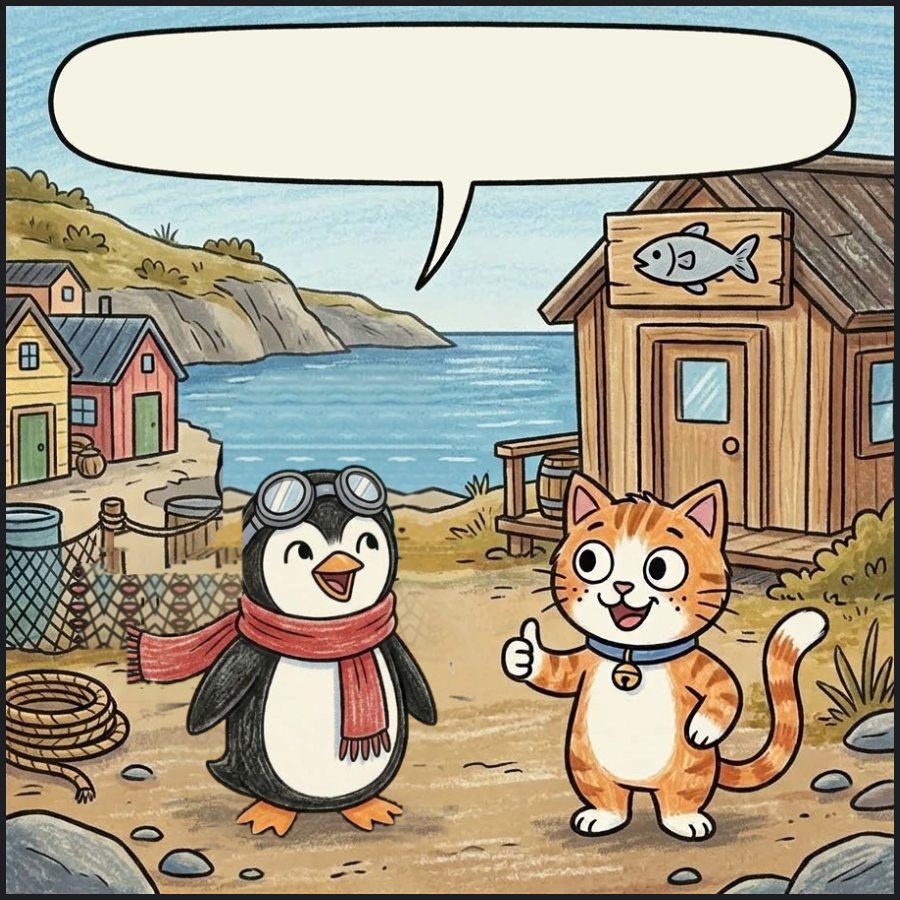
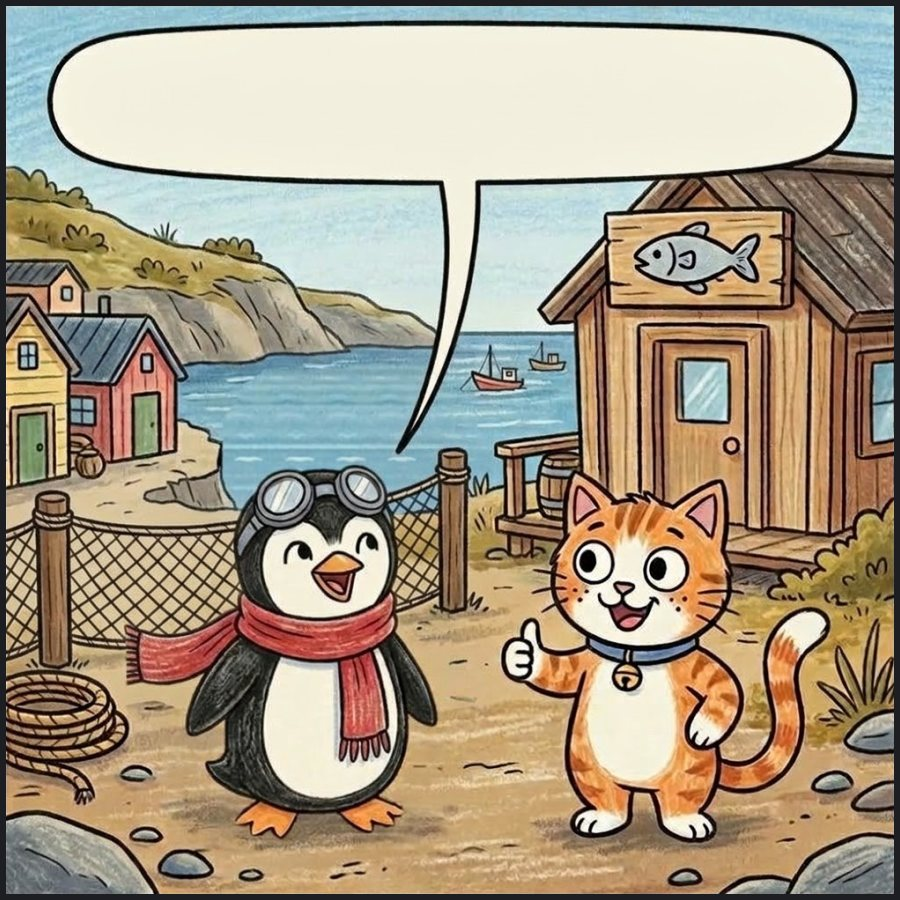
Episode 4: new frames 1 and 5
Claude-Session: https://claude.ai/code/session_01NreAqm5NtqDWekSoZfY2fL

diff --git a/ep4/index.html b/ep4/index.html
@@ -192,7 +192,7 @@ body.show-en .story{gap:2px}
     <div class="story"><p data-line="今天|是|个|好日子|！" data-en="Today is a great day!"></p><p data-line="小林|和|小懒猫|的|鱼|餐厅" data-en="Xiao Lin and Little Lazy Cat's fish restaurant"></p><p data-line="终于|开张|了|！" data-en="is finally open!"></p></div>
     <figure>
       <img src="sq1.jpg" alt="The penguin and cat stand proudly outside their new fish restaurant by the sea" width="900" height="900">
-      <button class="bub" data-who="penguin" data-line="我们|今天|开张|啦|！" data-en="We're opening today!" style="left:7.6%;top:3.6%;width:85.2%;height:15.5%;font-size:6.6cqw;line-height:1.25"></button>
+      <button class="bub" data-who="penguin" data-line="我们|今天|开张|啦|！" data-en="We're opening today!" style="left:7.4%;top:3.5%;width:85.6%;height:15.6%;font-size:7.0cqw;line-height:1.25"></button>
     </figure>
   </section>
   <section class="panel">
@@ -219,8 +219,8 @@ body.show-en .story{gap:2px}
   <section class="panel">
     <div class="story"><p data-line="小懒猫|看傻了|。" data-en="Little Lazy Cat just stared."></p><p data-line="小林|马上|煮了|一大锅|海带汤|。" data-en="Xiao Lin quickly cooked a big pot of kelp soup."></p><p data-line="小鱼们|都|说|：|“|好喝|！|”" data-en="All the little fish said: “Yummy!”"></p></div>
     <figure>
-      <img src="sq5.jpg" alt="Fish customers eat kelp soup while the penguin and cat serve bowls" width="900" height="900">
-      <button class="bub" data-who="fish" data-line="海带汤|真|好喝|！" data-en="The kelp soup is so good!" data-show="海带汤/真好喝！" style="left:20.9%;top:14.7%;width:16.7%;height:10.5%;font-size:3.8cqw;line-height:1.25"></button><button class="bub" data-who="fish" data-line="明天|我|还要|来|！" data-en="I'm coming back tomorrow!" data-show="明天/我还要来！" style="left:40.7%;top:16.2%;width:19.6%;height:11.0%;font-size:3.5cqw;line-height:1.25"></button><button class="bub" data-who="fish" data-line="看起来|好|好吃|！" data-en="It looks so yummy!" data-show="看起来/好好吃！" style="left:64.1%;top:8.0%;width:23.4%;height:12.1%;font-size:4.4cqw;line-height:1.25"></button><button class="bub" data-who="penguin" data-line="海带汤|来了|！" data-en="Here's your kelp soup!" data-show="海带汤/来了！" style="left:76.3%;top:46.9%;width:19.9%;height:11.9%;font-size:4.4cqw;line-height:1.25"></button><button class="bub" data-who="cat" data-line="五号桌|再来|一碗|！" data-en="One more bowl for table five!" data-show="五号桌/再来一碗！" style="left:41.8%;top:64.4%;width:11.7%;height:8.6%;font-size:2.8cqw;line-height:1.25"></button>
+      <img src="sq5.jpg" alt="Fish customers, including a big anglerfish, eat kelp soup while the penguin and cat serve bowls" width="900" height="900">
+      <button class="bub" data-who="fish" data-line="海带汤|真|好喝|！" data-en="The kelp soup is so good!" data-show="海带汤/真好喝！" style="left:20.8%;top:14.6%;width:16.7%;height:10.6%;font-size:4.2cqw;line-height:1.25"></button><button class="bub" data-who="fish" data-line="明天|我|还要|来|！" data-en="I'm coming back tomorrow!" data-show="明天/我还要来！" style="left:40.7%;top:16.1%;width:19.8%;height:11.1%;font-size:4.2cqw;line-height:1.25"></button><button class="bub" data-who="fish" data-line="看起来|好|好吃|！" data-en="It looks so yummy!" data-show="看起来/好好吃！" style="left:64.1%;top:7.8%;width:23.5%;height:12.2%;font-size:5.0cqw;line-height:1.25"></button><button class="bub" data-who="penguin" data-line="海带汤|来了|！" data-en="Here's your kelp soup!" data-show="海带汤/来了！" style="left:76.2%;top:47.0%;width:20.1%;height:12.0%;font-size:5.0cqw;line-height:1.25"></button><button class="bub" data-who="cat" data-line="五号桌|再来|一碗|！" data-en="One more bowl for table five!" data-show="五号桌/再来一碗！" style="left:41.8%;top:64.5%;width:11.7%;height:8.7%;font-size:2.6cqw;line-height:1.25"></button>
     </figure>
   </section>
   <section class="panel">
